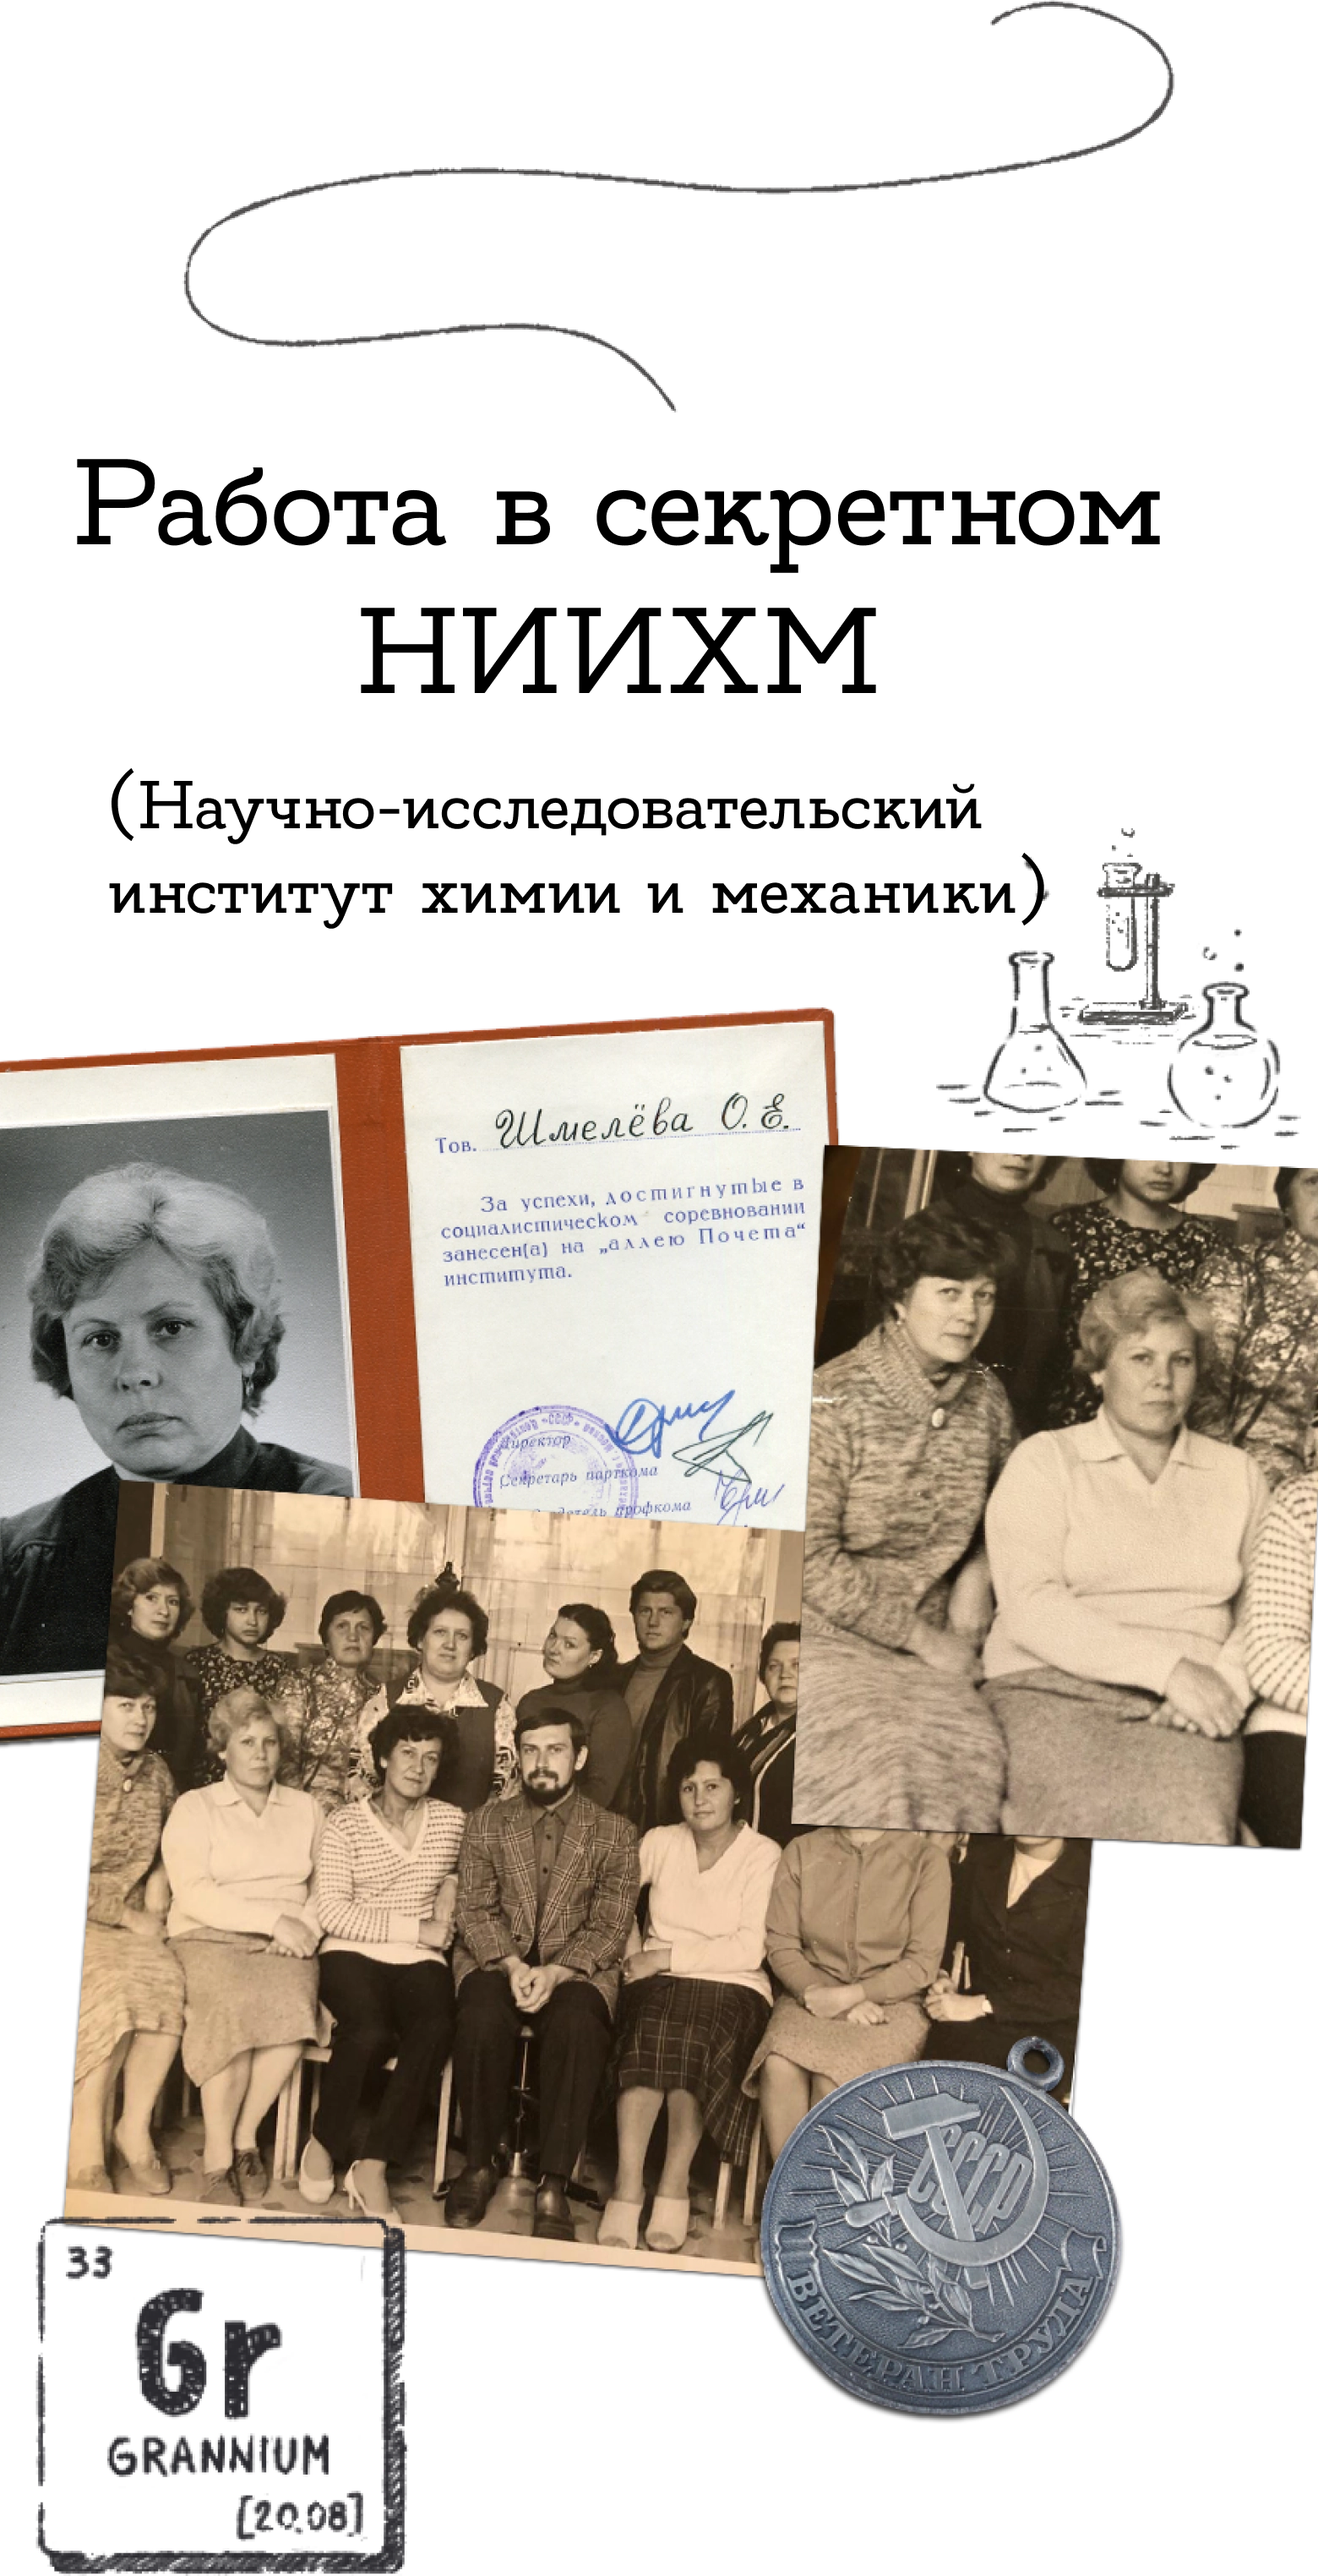
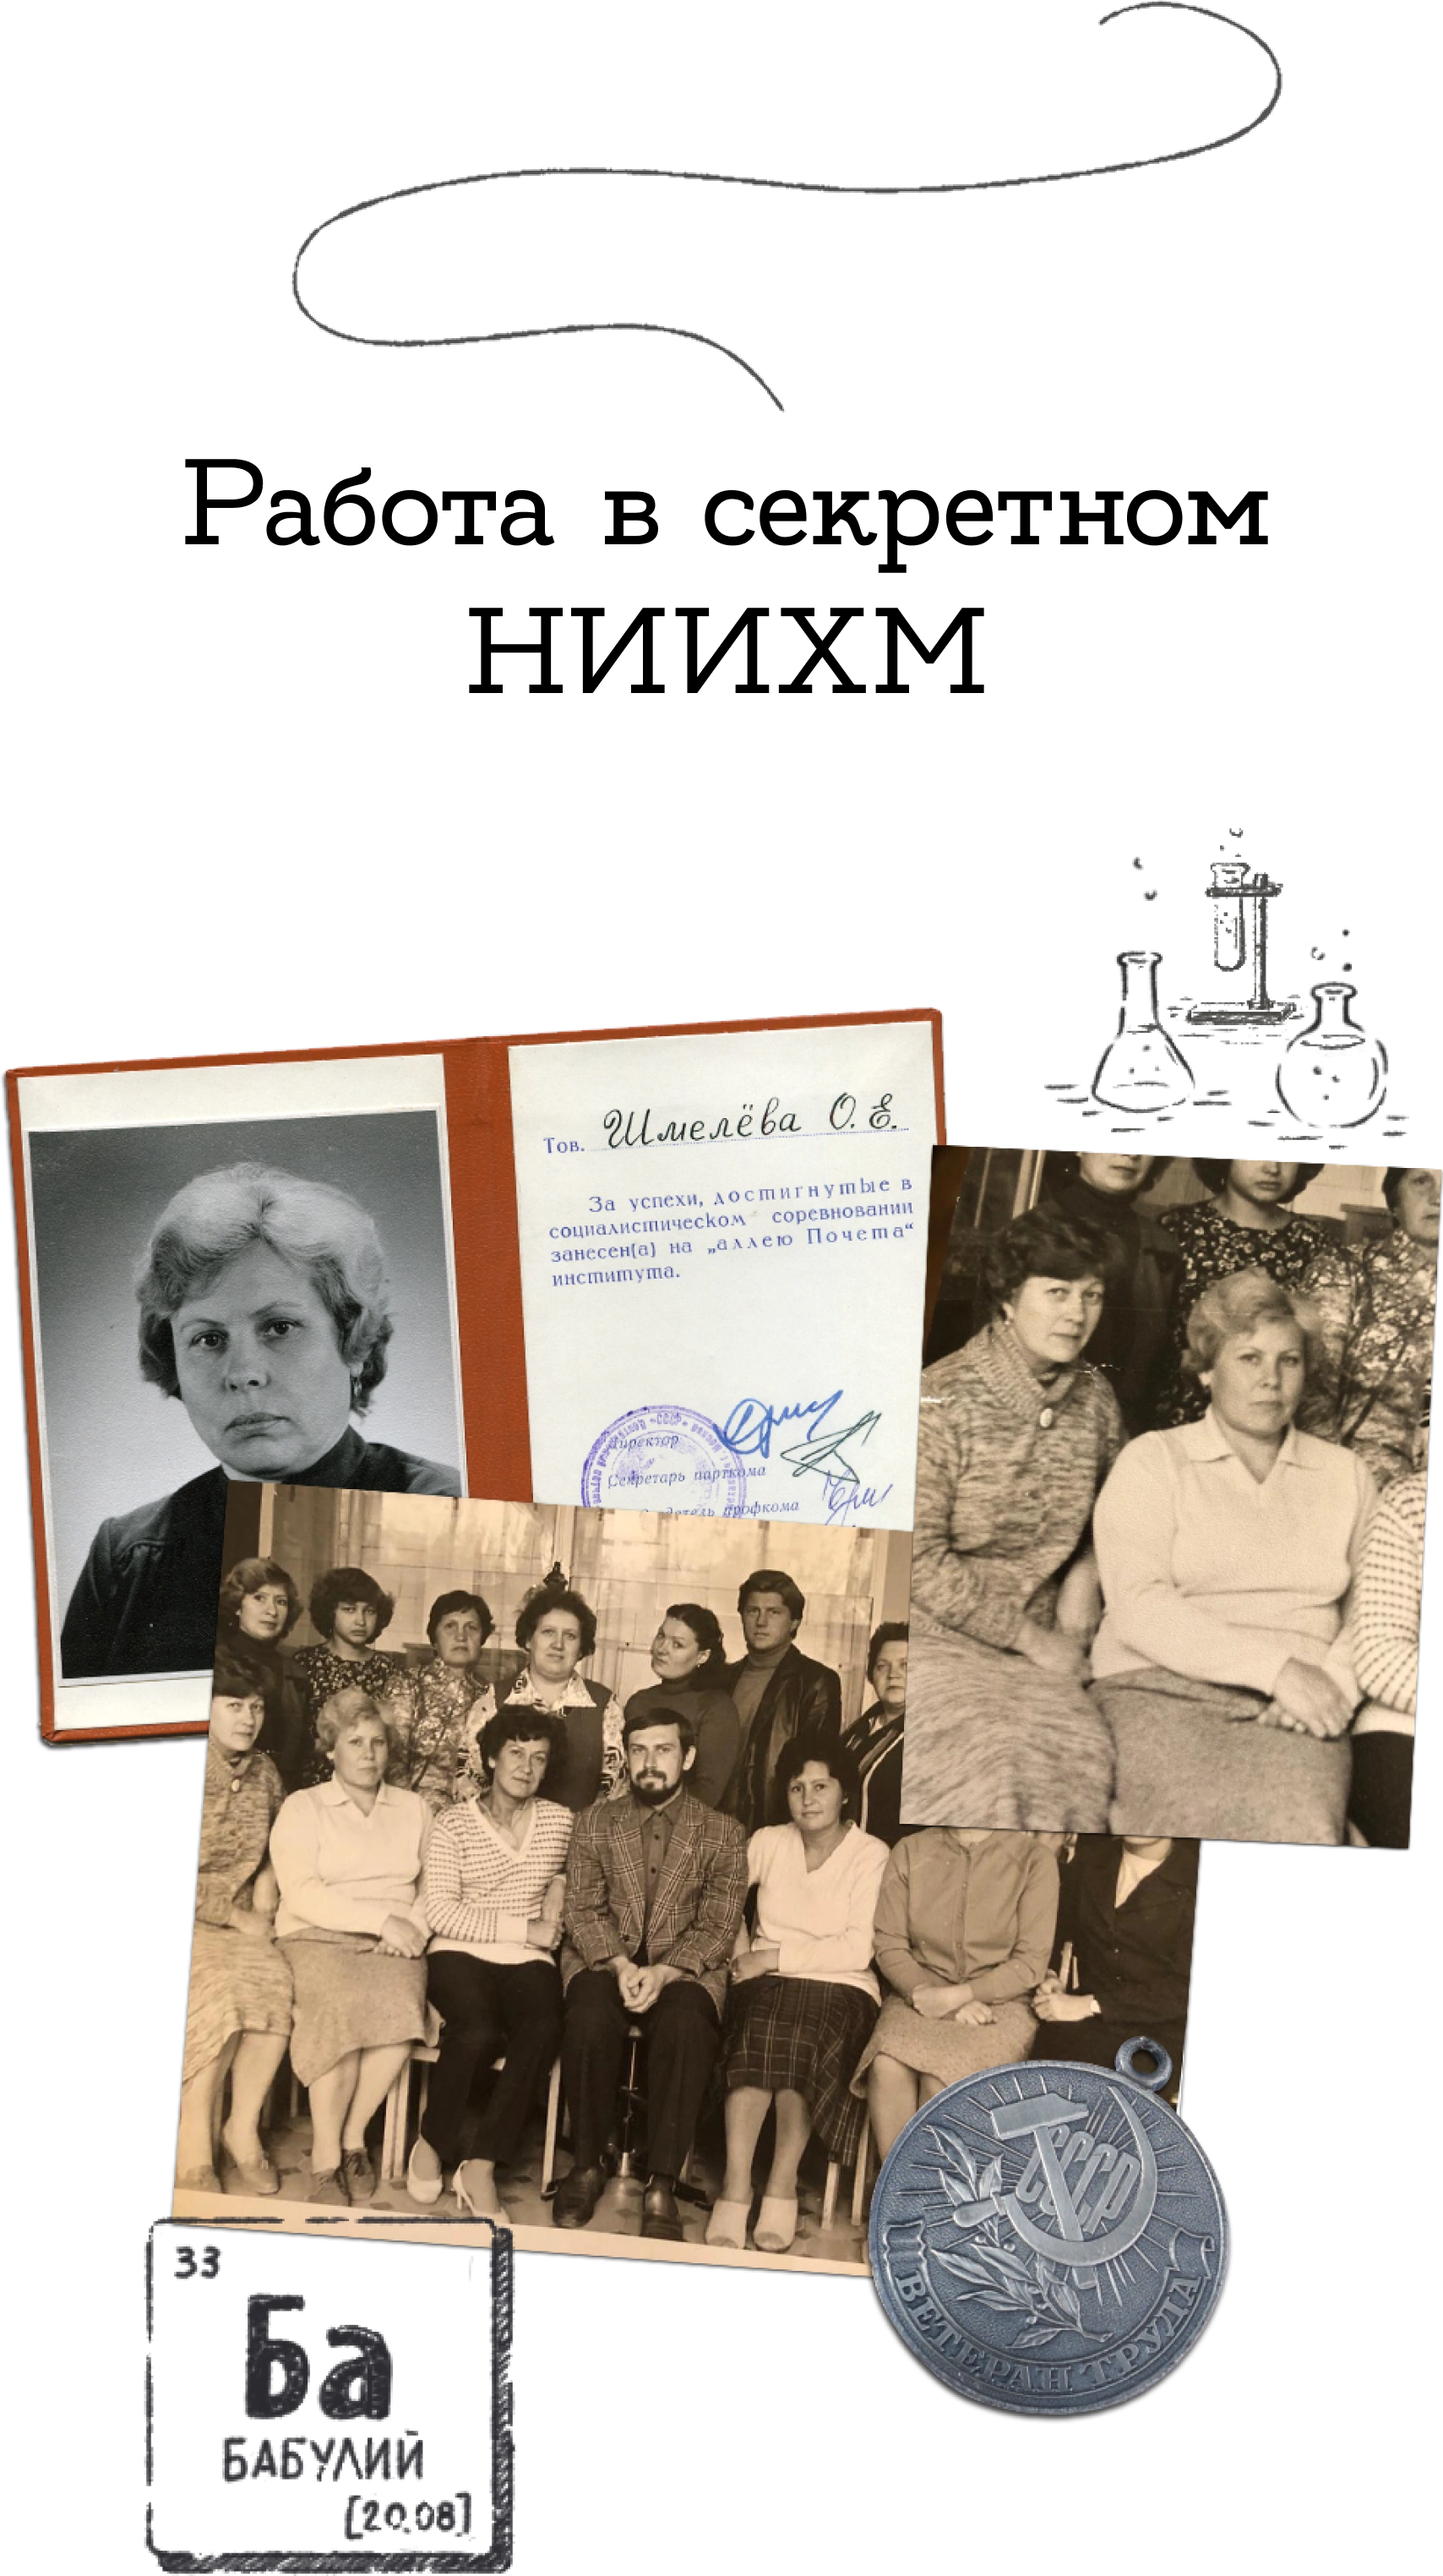
Fixed typos

diff --git a/tablet.css b/tablet.css
@@ -46,7 +46,7 @@
 
   .bs-text {
     position: relative;
-    width: 325px;
+    width: 286px;
     margin-left: 650px;
     /*  margin-top: -510px; */
     margin-top: -475px;
@@ -61,9 +61,10 @@
 
   .bbs-text {
     position: relative;
-    width: 321px;
+    width: 280px;
     margin-left: -500px;
-    margin-top: 178px;
+    /* margin-top: 178px; */
+    margin-top: 145px;
     margin-bottom: -300px;
   }
 
@@ -366,8 +367,8 @@
   }
 
   .bs-text {
-    width: 287px;
-    top: 90px;
+    width: 264px;
+    top: 78px;
     left: -86px;
     margin-top: -510px;
   }
@@ -380,8 +381,8 @@
 
   .bbs-text {
     left: 60px;
-    width: 280px;
-    margin-top: 201px;
+    width: 262px;
+    margin-top: 175px;
   }
 
   .school {

diff --git a/style.css b/style.css
@@ -745,7 +745,7 @@ p {
   }
 
   .section-daughters {
-    margin-top: -18rem;
+    margin-top: -55vmin;
     margin-bottom: -3vmin;
   }
 
@@ -801,7 +801,7 @@ p {
     text-align: left;
     font-size: 5.9vw;
     padding-left: 3vmin;
-    margin: 0px;
+    margin: 26px 0px 0px 0px;
   }
   .timeline .retirement {
     position: relative;
